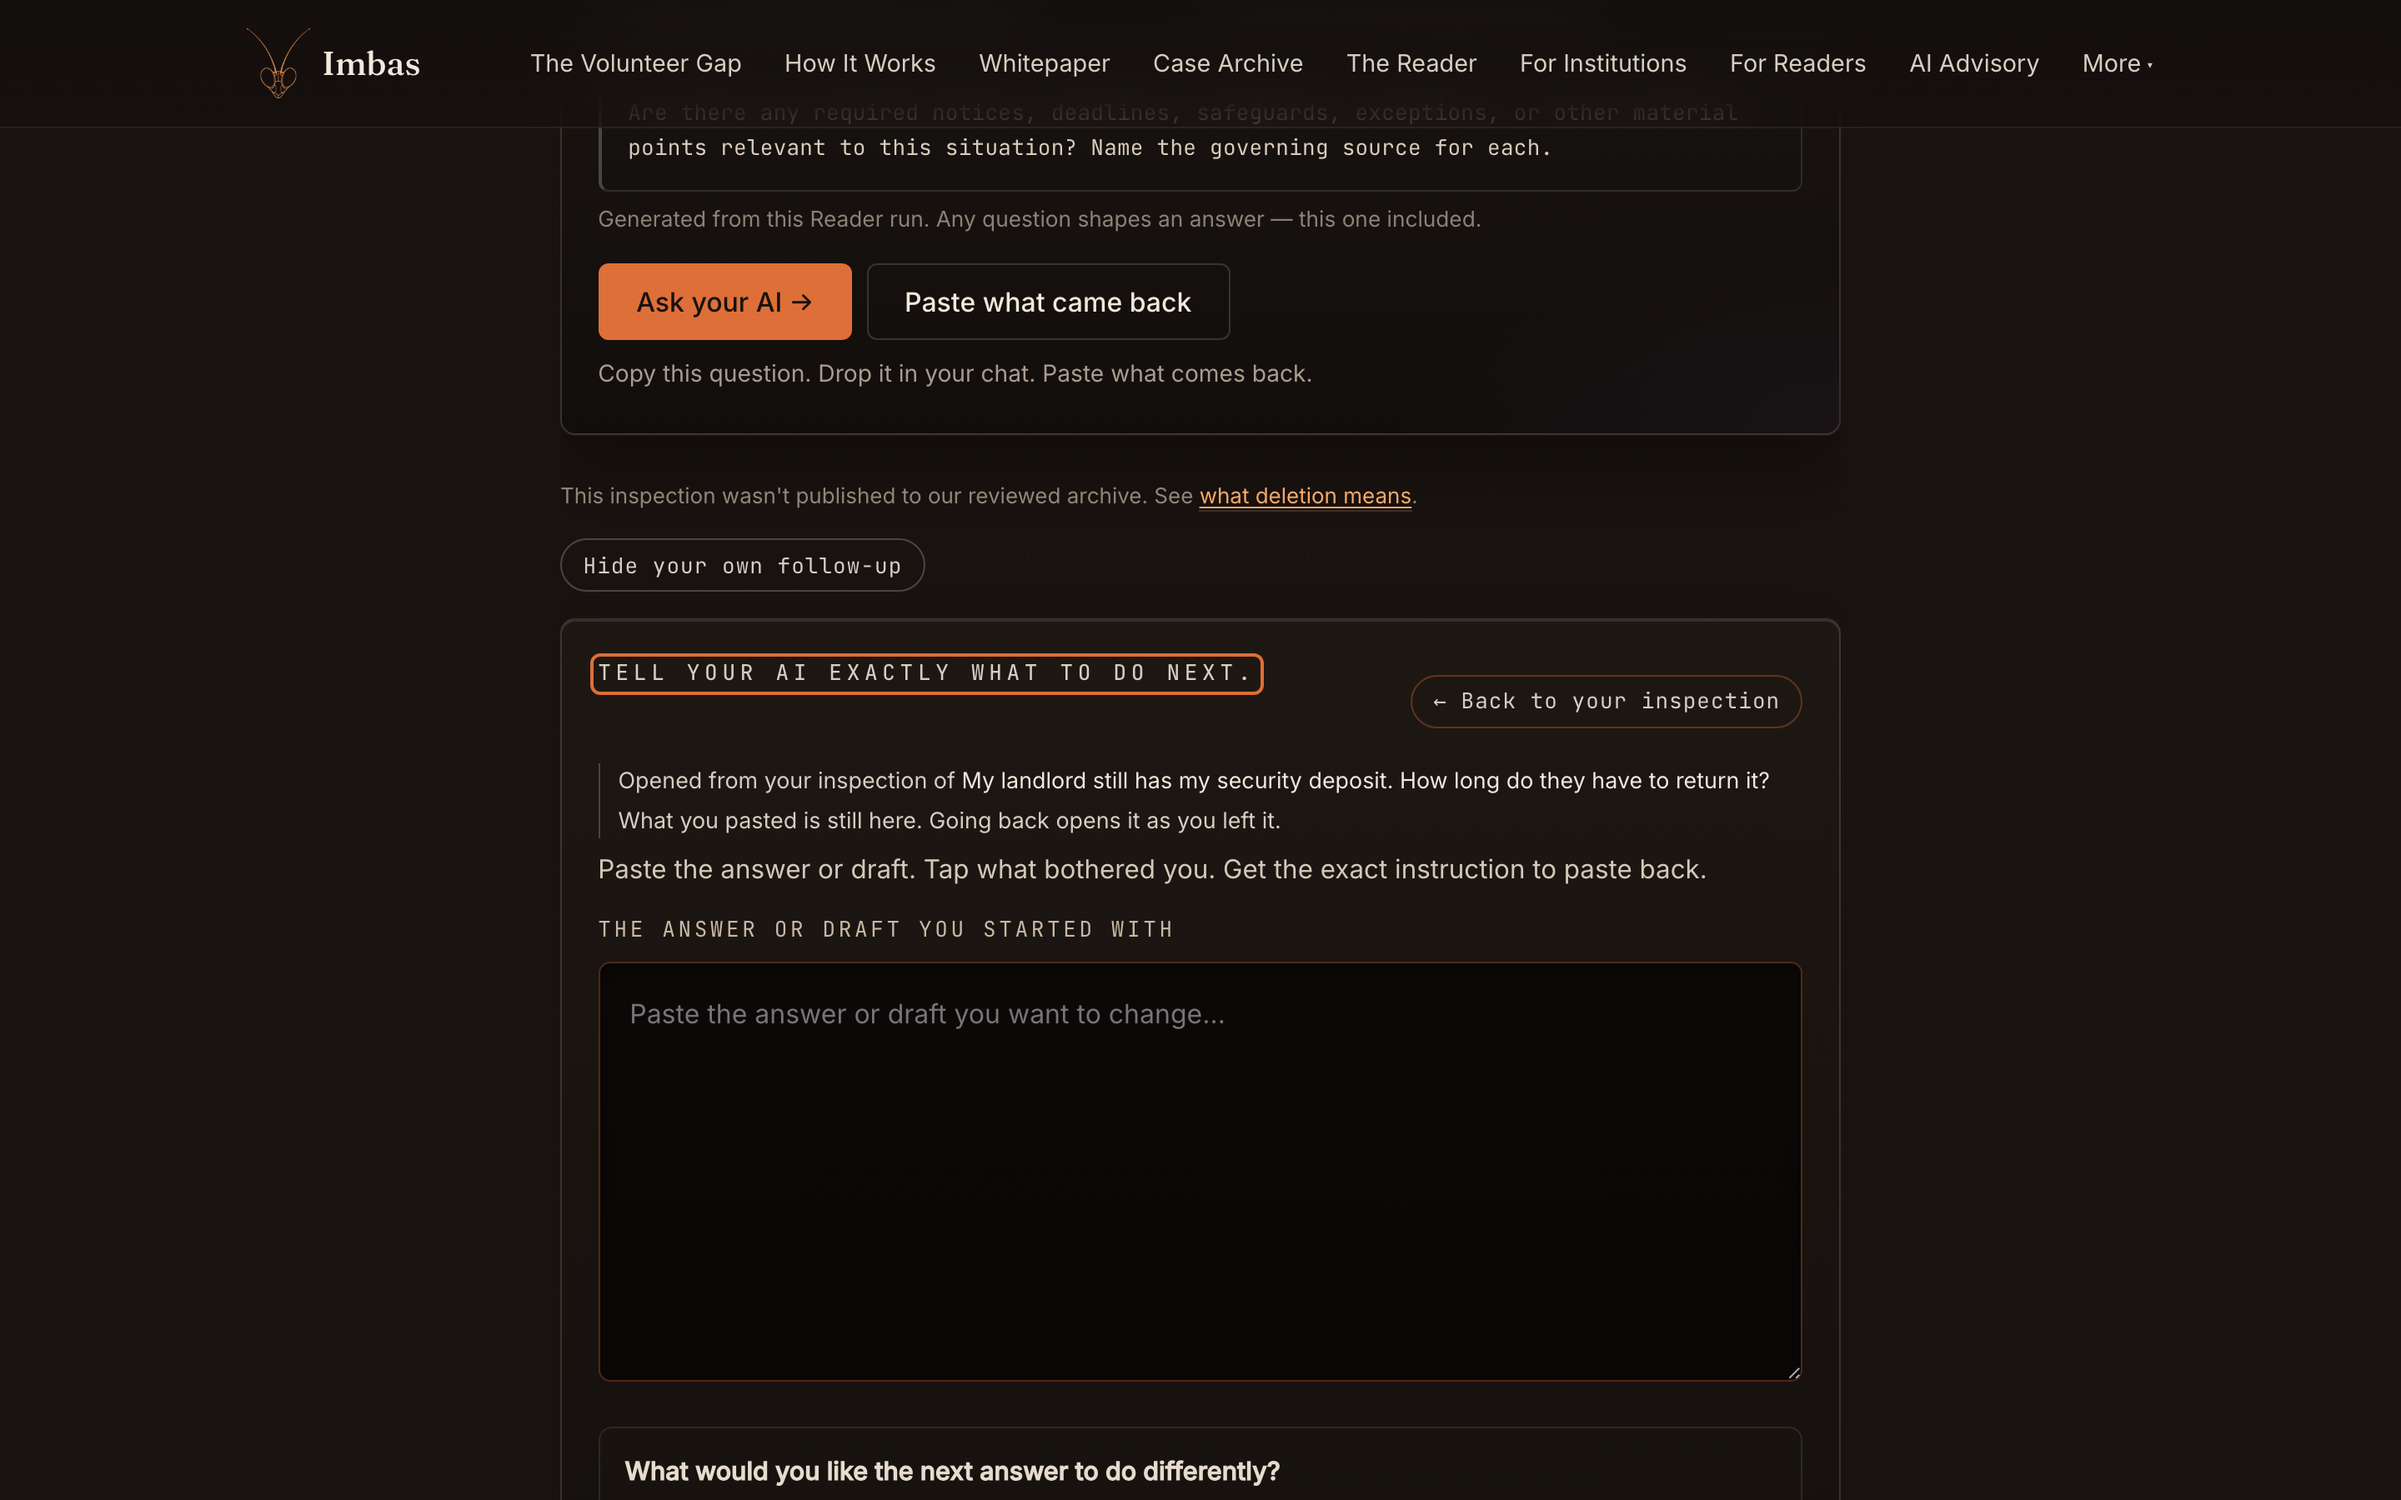
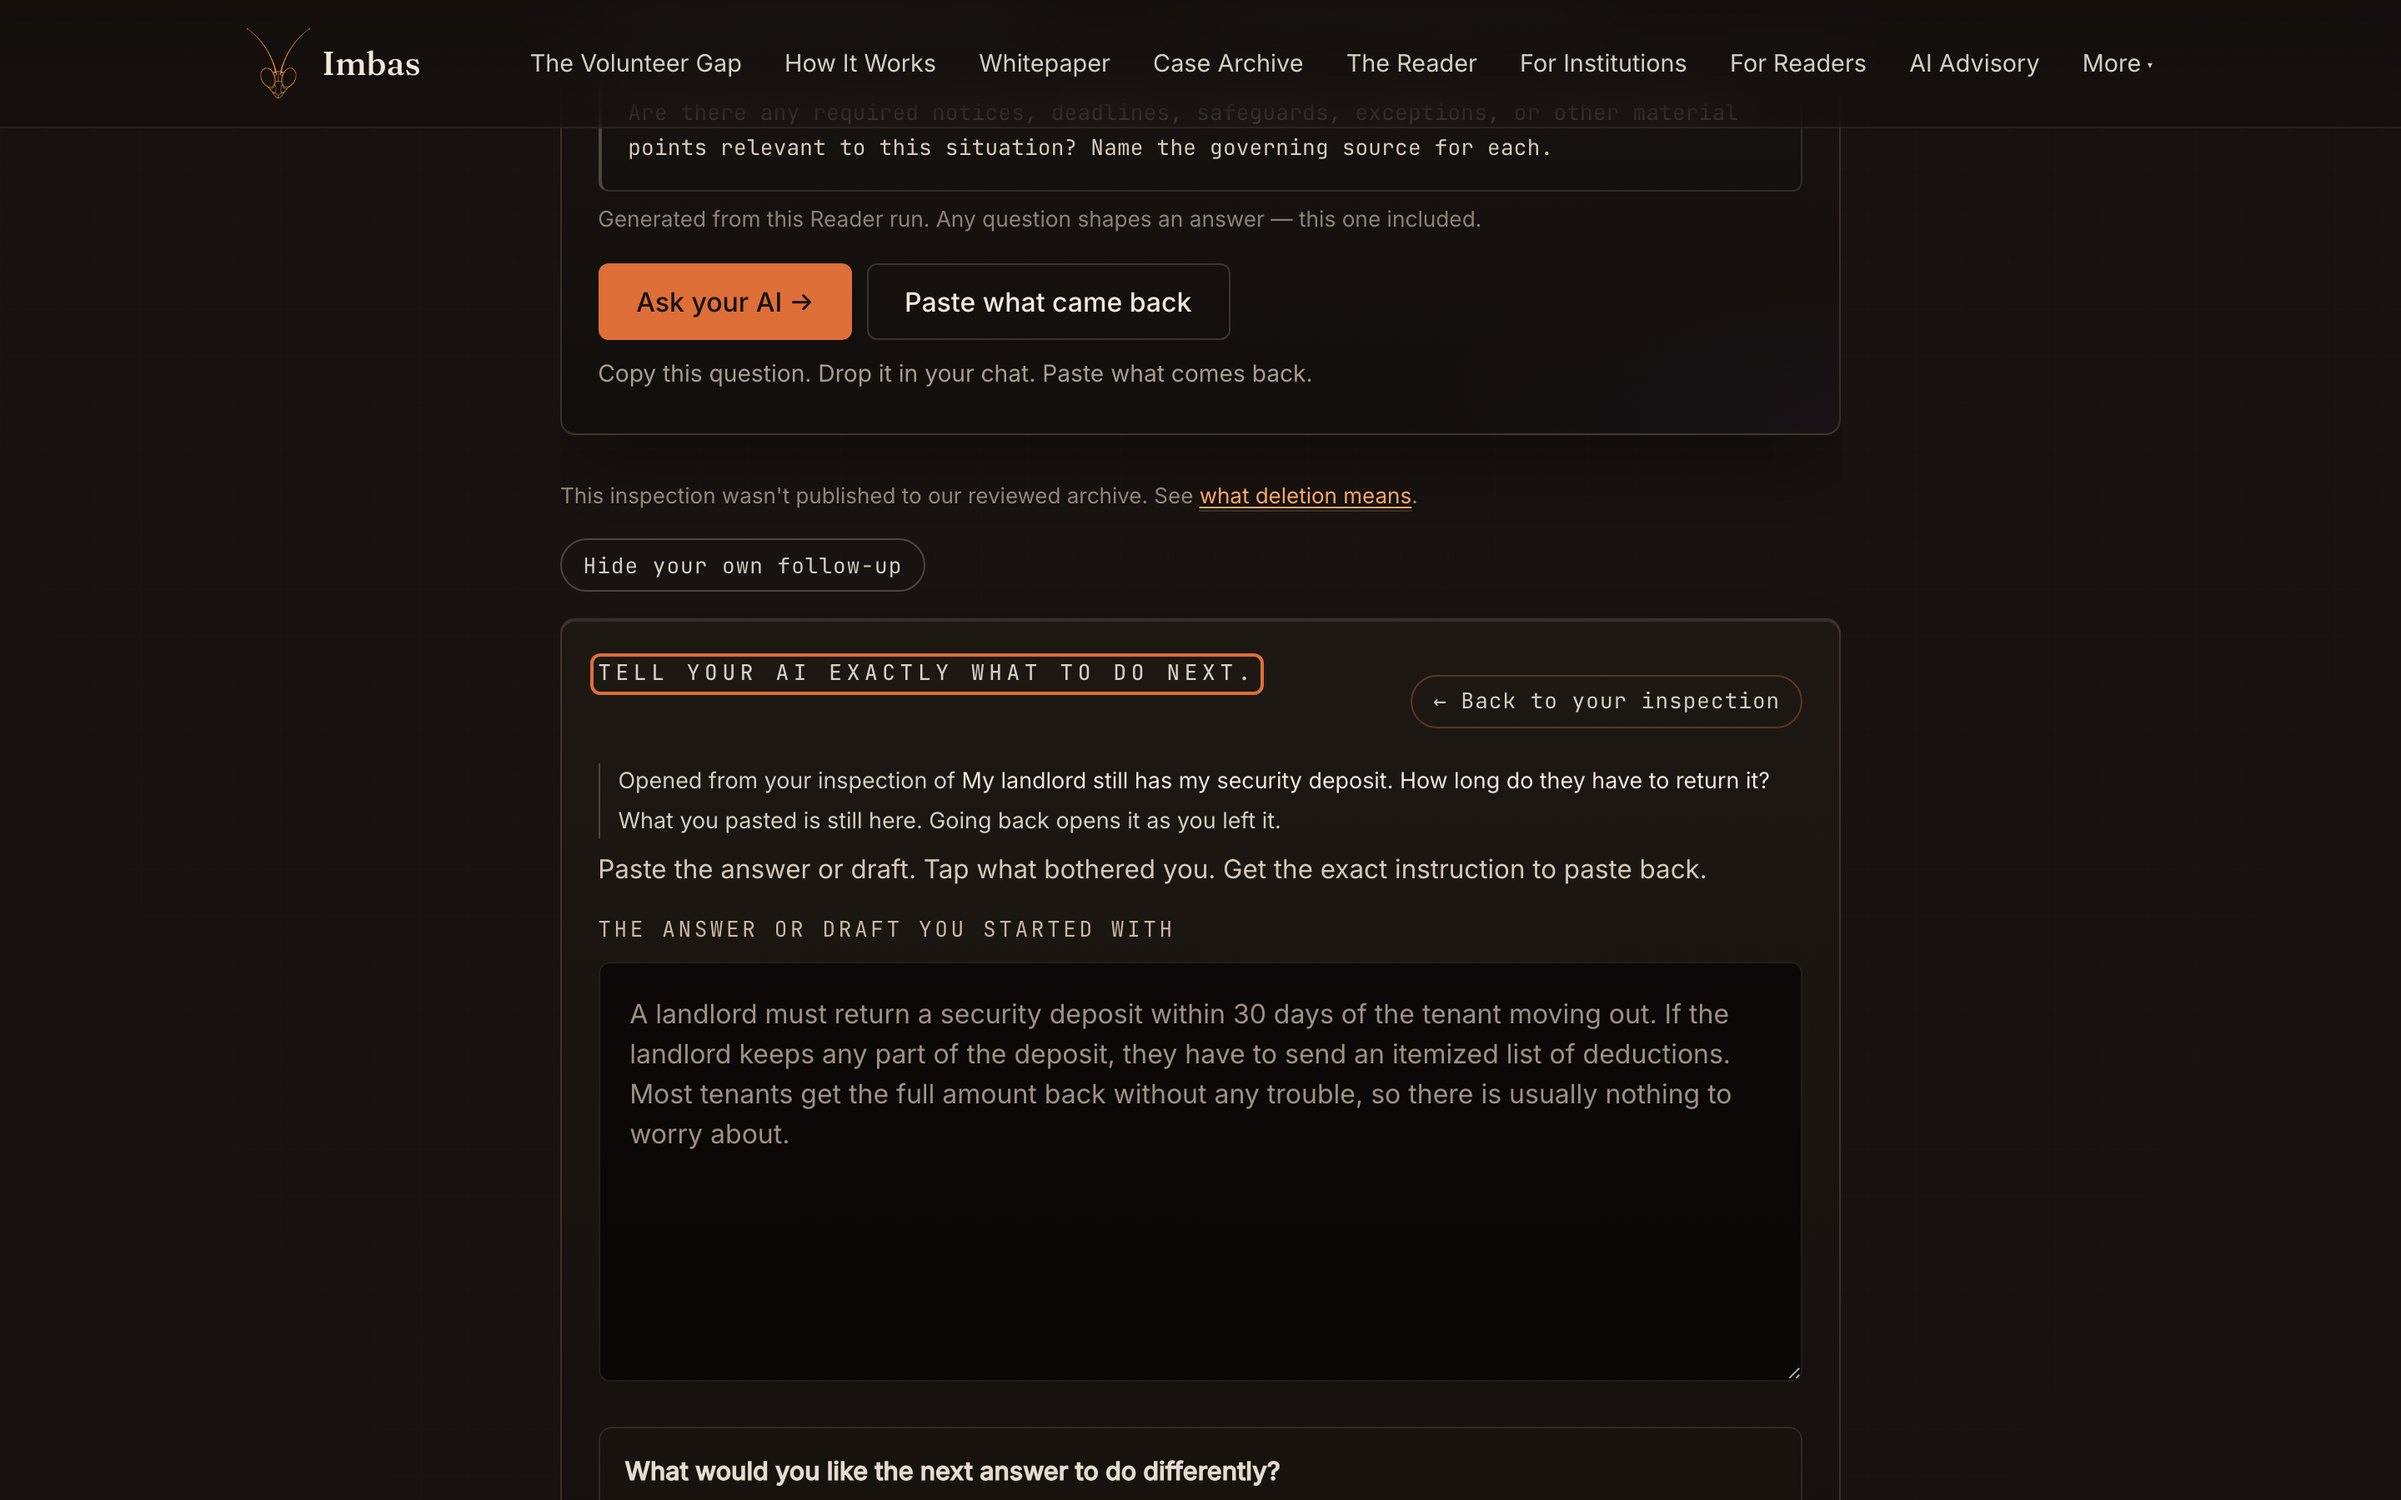
Show the held answer in the board's record of it
Accept the two chips-from-inspection frames the held-state repair moved. The
lane's first answer field now carries the inspected answer read-only, so the
snapshot line moves from an empty editable box to the 282 characters that were
measured. Four independent renders produced the same bytes.

Reseal the blocks ratchet against its moved governed source. Amending the
scenario's expected-behaviour prose changed the whole-file hash of
scripts/qa/scenarios.mjs, which populationSources() hashes. The scenario
population did not move: 39 scenarios, the same viewports and selectors, and
all 60 governed ceilings measured identically. Source movement, no measured
movement.

Changed region(s): [[0.25, 0.6533, 0.7188, 0.7778]]

diff --git a/docs/qa/visual-acceptance-harness/manifest.md b/docs/qa/visual-acceptance-harness/manifest.md
@@ -95,33 +95,33 @@ A board that lists only what it covers reads as complete. These are the result s
 
 | field | value |
 | --- | --- |
[1 lines of base64/hex data omitted]
-| bytes | 478473 |
[1 lines of base64/hex data omitted]
+| bytes | 524417 |
 | snapshot | `chips-from-inspection--desktop.snapshot.txt` |
[1 lines of base64/hex data omitted]
-| snapshot bytes | 29364 |
[1 lines of base64/hex data omitted]
+| snapshot bytes | 29650 |
 | viewport | 1440x900@2x (desktop) |
 | url | `/reader.html`, query `(none)` |
 | framed on | `#wb-chip-lane .wb-reader-result__head` at scroll offset 4008 |
 | browser | `HeadlessChrome/148.0.7778.96` |
 | state captured | The chip lane opened from a findings-bearing inspection by pressing the door on the result |
-| expected behaviour | The lane heads itself, offers the way back to the inspection by name, and states what it was opened over — the question, never the answer body. The follow-up chips render under the sentence that says the person is choosing them and Imbas has determined nothing. The lane's own first answer box stands empty and no source paste box is restored beside it, and the inspection's own count and marks are still in the document above it. |
+| expected behaviour | The lane heads itself, offers the way back to the inspection by name, and states what it was opened over. The origin block names the question and never the answer body, because the answer body is held once below it: the lane's own first answer field carries the inspected answer, read-only, so the text a person is about to steer is the text that was measured. No second editable copy of it stands anywhere on the page, and the inspection's own count and marks are still in the document above it. The follow-up chips render under the sentence that says the person is choosing them and Imbas has determined nothing. |
 
 ### `chips-from-inspection--mobile.png`
 
 | field | value |
 | --- | --- |
[1 lines of base64/hex data omitted]
-| bytes | 435464 |
[1 lines of base64/hex data omitted]
+| bytes | 497411 |
 | snapshot | `chips-from-inspection--mobile.snapshot.txt` |
[1 lines of base64/hex data omitted]
-| snapshot bytes | 28462 |
[1 lines of base64/hex data omitted]
+| snapshot bytes | 28748 |
 | viewport | 375x812@3x (mobile) |
 | url | `/reader.html`, query `(none)` |
 | framed on | `#wb-chip-lane .wb-reader-result__head` at scroll offset 5703 |
 | browser | `HeadlessChrome/148.0.7778.96` |
 | state captured | The chip lane opened from a findings-bearing inspection by pressing the door on the result |
-| expected behaviour | The lane heads itself, offers the way back to the inspection by name, and states what it was opened over — the question, never the answer body. The follow-up chips render under the sentence that says the person is choosing them and Imbas has determined nothing. The lane's own first answer box stands empty and no source paste box is restored beside it, and the inspection's own count and marks are still in the document above it. |
+| expected behaviour | The lane heads itself, offers the way back to the inspection by name, and states what it was opened over. The origin block names the question and never the answer body, because the answer body is held once below it: the lane's own first answer field carries the inspected answer, read-only, so the text a person is about to steer is the text that was measured. No second editable copy of it stands anywhere on the page, and the inspection's own count and marks are still in the document above it. The follow-up chips render under the sentence that says the person is choosing them and Imbas has determined nothing. |
 
 ### `claim-authorized-match--desktop.png`
 
